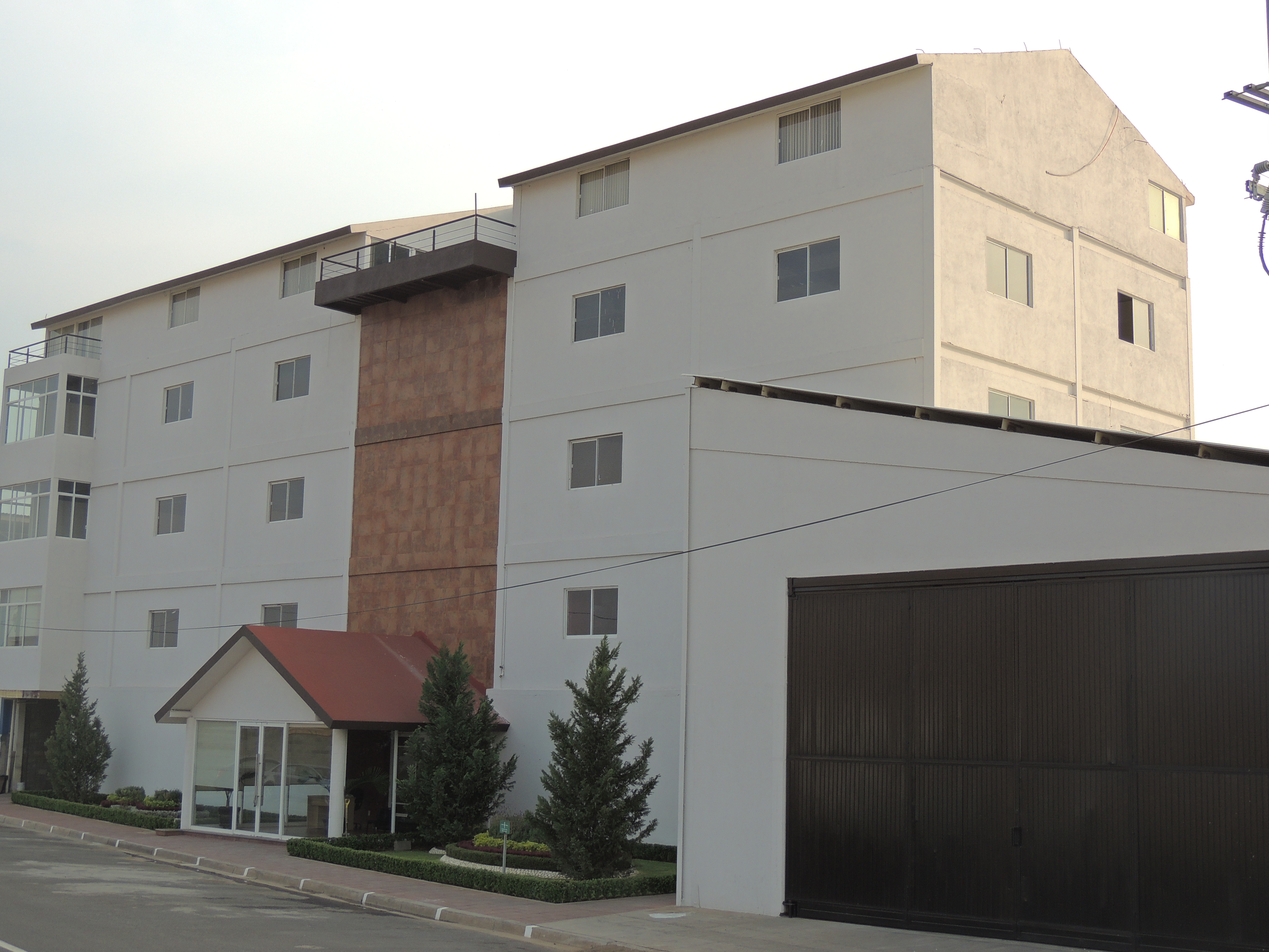
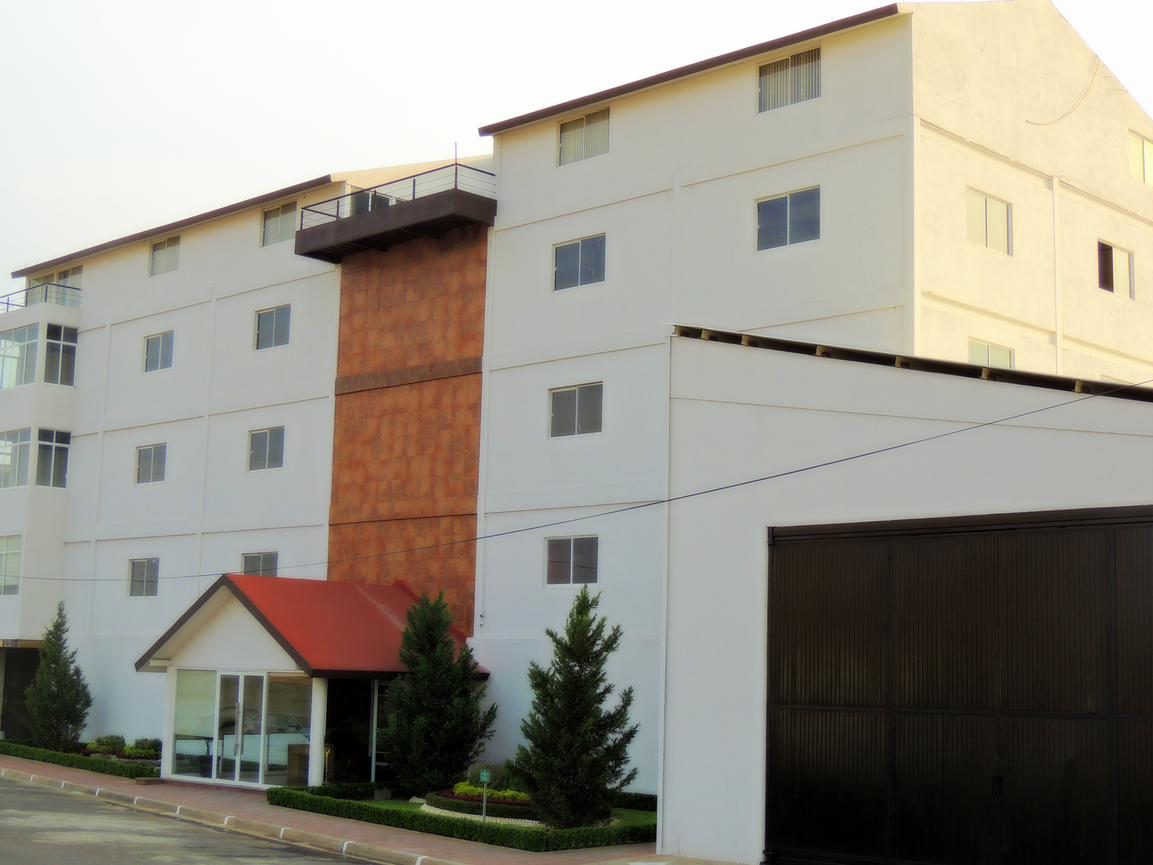
imagen fachada

diff --git a/web/contacto.html b/web/contacto.html
@@ -73,10 +73,13 @@
 
 
 		<div class="row">
-			<div class="col l8 offset-l2">
-				<h4>Localización</h4>
-				<iframe class="blue-grey" id=mapa src="https://www.google.com/maps/d/embed?mid=1F9WRa1-e3qxfAO4D2z-HCLFH2oU" frameborder="0" style="border:0;width:100%;height:500px" allowfullscreen></iframe>
-			</div>
+      <div class="col m5 offset-m1">
+        <img class="materialboxed responsive-img" id="fachada" src="img/fachada.jpg">
+      </div>
+      <div class="col m5">
+				<iframe class="blue-grey" id=mapa src="https://www.google.com/maps/d/embed?mid=1F9WRa1-e3qxfAO4D2z-HCLFH2oU" 
+        frameborder="0" style="border:0;width:100%;height:500px" allowfullscreen></iframe>
+      </div>
 		</div>
 
 
@@ -130,7 +133,9 @@
 		} },
 		];
 		Materialize.scrollFire(options);
-		$(".parallax").parallax();
+    if ($("#fachada").height()>100) {
+      $("#mapa").height($("#fachada").height())
+    }
 		$(document).dblclick(function(){location.reload()});
 	</script>
 </body>
